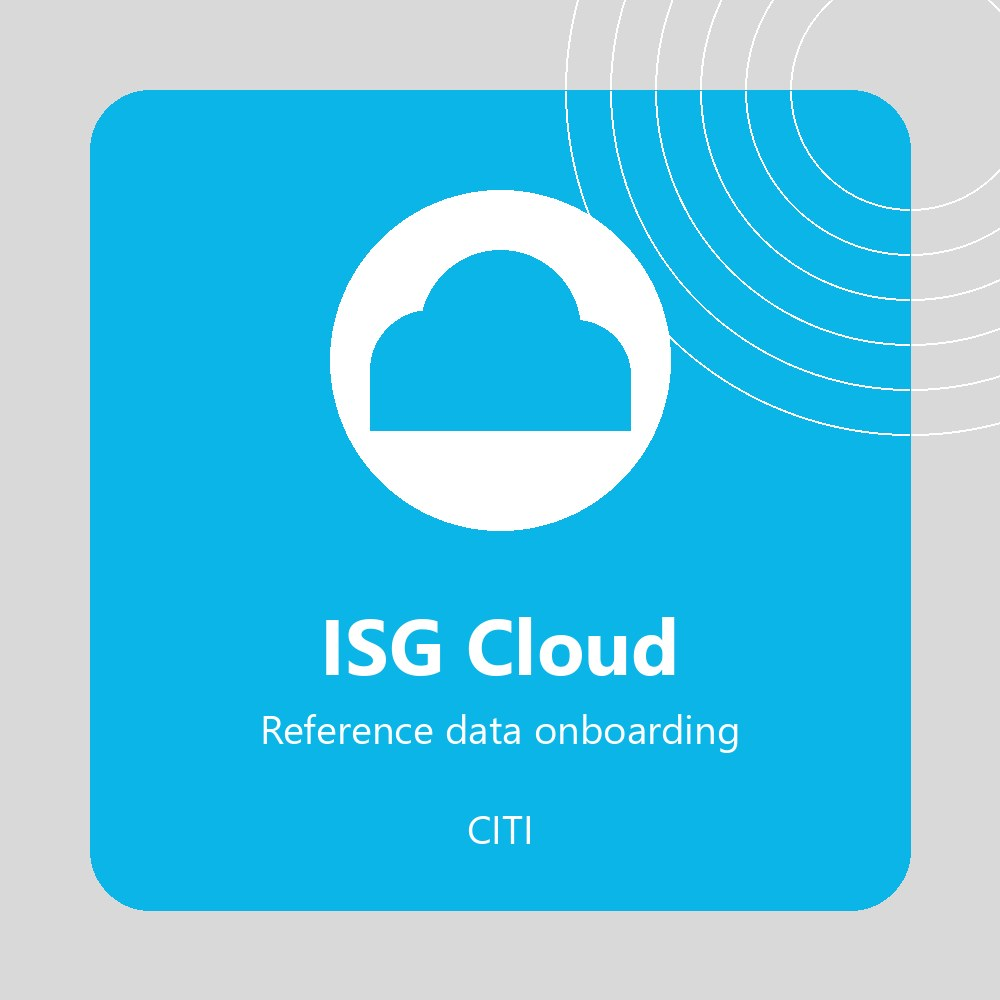
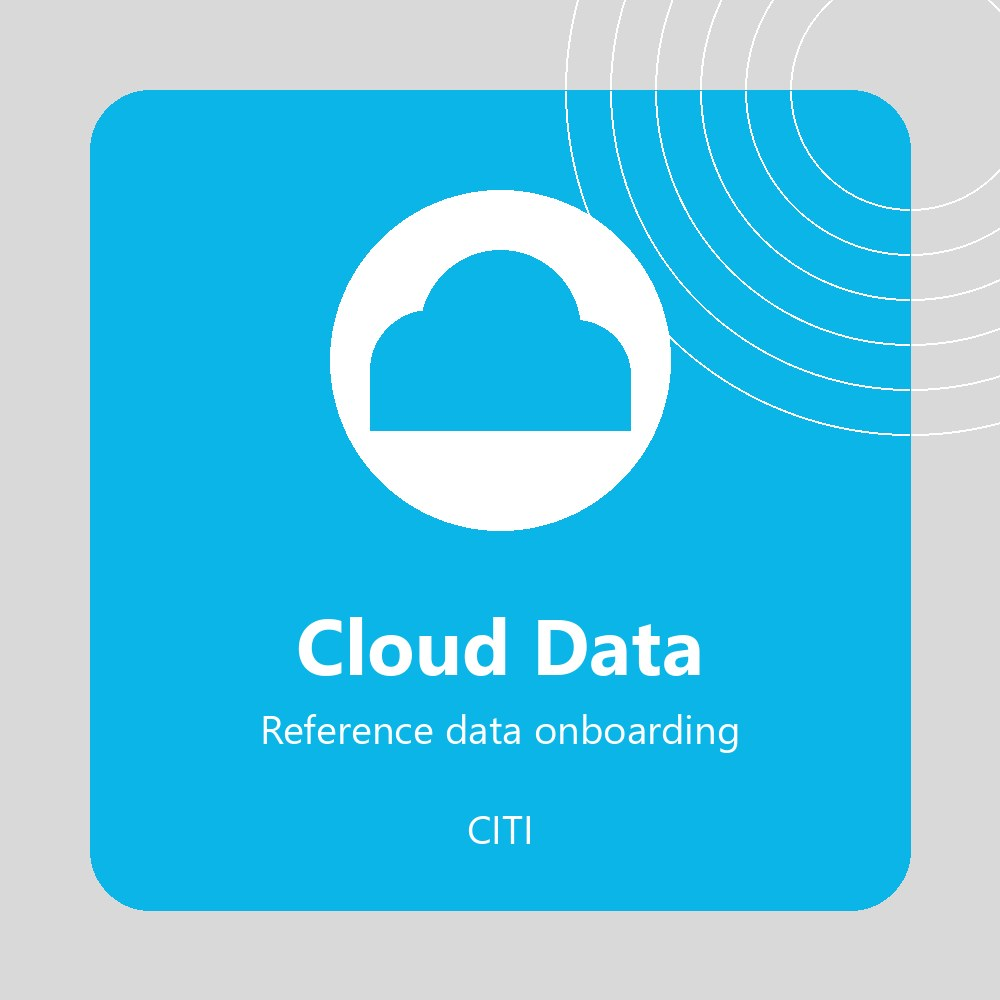
Replace internal platform and team names with generic wording

Changed region(s): [[0.279, 0.62, 0.713, 0.682]]

diff --git a/index.html b/index.html
@@ -83,10 +83,10 @@
                 <ul class="plain-list">
                     <li><strong>Product ownership:</strong> Owns and prioritizes product backlogs and roadmaps, defines product vision and release plans, runs refinement, sprint and PI planning, and balances regulatory, business and technical priorities across concurrent initiatives.</li>
                     <li><strong>Technical requirements:</strong> Technical and API user stories, functional specifications, solution and interface designs, sequence diagrams and data mappings that engineering teams can build and test against.</li>
-                    <li><strong>Capital markets and reference data:</strong> Account onboarding and maintenance, legal entity (MCLE, GFCID), settlement instruction (SSI) and client reference data, institutional brokerage integration, post-trade reconciliation and T+1 settlement readiness.</li>
+                    <li><strong>Capital markets and reference data:</strong> Account onboarding and maintenance, legal entity, client identifier, settlement instruction (SSI) and client reference data, institutional brokerage integration, post-trade reconciliation and T+1 settlement readiness.</li>
                     <li><strong>Regulatory and compliance:</strong> KYC, sanctions screening (OFAC, AML), FinCEN, tax documentation, AODA, PIPEDA and CPPA, translated into business rules, compliance controls, maker/checker workflows and audit-ready processes.</li>
                     <li><strong>Payments:</strong> ISO 20022 (pacs, camt), SWIFT MT to MX, Fedwire, Interac, ACH and account-based payments, wire payment engines (Finastra, ACI), payment APIs, Open Payment Framework, and fraud, sanctions and AML integrations.</li>
-                    <li><strong>Data and integration:</strong> Event-driven architecture (Kafka, KaaS, Tibco), cloud data platforms, data mapping across XML, JSON, flat file, CSV and ANSI X12, data governance, data profiling, data quality and ETL rules, SQL analysis.</li>
+                    <li><strong>Data and integration:</strong> Event-driven architecture (Kafka, Tibco), cloud data platforms, data mapping across XML, JSON, flat file, CSV and ANSI X12, data governance, data profiling, data quality and ETL rules, SQL analysis.</li>
                     <li><strong>Analysis and modelling:</strong> BPMN, UML, process mapping and business process reengineering, gap, SWOT, feasibility, cost-benefit and impact analysis, conceptual and logical data modelling, decision trees and sequence diagrams.</li>
                     <li><strong>Testing and release:</strong> UAT planning and governance, SIT and regression testing, Cucumber/BDD test case reviews, API testing in Postman, defect triage, release readiness, change management and post-implementation validation.</li>
                     <li><strong>Stakeholder leadership:</strong> JAD sessions, workshops and focus groups with SMEs, consensus building across Operations, Compliance, Architecture, Development and vendor teams, and mentoring of junior analysts.</li>
@@ -114,18 +114,18 @@
                             <p class="timeline-event-thumbnail">October 2023 - Present</p>
                             <h3>Sr. Business Systems Analyst / Product Owner</h3>
                             <h4>Citi, Toronto, ON</h4>
-                            <p><strong>AMC Accounts (eSales), Tibco to Kafka Migration, ISG Cloud, CitiKYC &amp; CitiScreening, Broadridge, FinCEN &amp; Tax, T+1 Settlement</strong></p>
+                            <p><strong>Account Reference Data Platform, Tibco to Kafka Migration, Cloud Data Platform, KYC &amp; Sanctions Screening, Broadridge, FinCEN &amp; Tax, T+1 Settlement</strong></p>
                             <ul class="plain-list">
-                                <li><strong>Product ownership:</strong> Own the product backlog and roadmap for AMC Accounts (eSales), Citi&#x27;s global account onboarding and reference data platform publishing Accounts, legal entities (MCLE, GFCID), settlement instructions (SSI) and communication profiles to enterprise downstream consumers.</li>
-                                <li><strong>Event-driven migration:</strong> Led business delivery of Citi&#x27;s strategic Tibco Exit Program, moving enterprise data distribution from Tibco to Kafka/KaaS and ISG Cloud, and onboarding and validating numerous downstream consumer applications with minimal business disruption.</li>
-                                <li><strong>Cloud data platform:</strong> Defined data publication, account classification and status derivation rules to onboard Accounts, MCLE, GFCID, SSI, CMM, ETC and Communication Profile reference data into ISG Cloud.</li>
-                                <li><strong>Vendor integration:</strong> Owned the Broadridge Integration Program backlog: brokerage account migration, BRID generation, automated onboarding, SSI synchronization, ACK/NACK reconciliation and exception management.</li>
-                                <li><strong>Sanctions screening:</strong> Integrated eSales with CitiScreening for OFAC, AML and sanctions compliance, with real-time and batch screening, maker/checker workflows and restriction management.</li>
-                                <li><strong>KYC integration:</strong> Defined CitiKYC integration requirements for MCLE creation, KYC refresh, risk assessment and Product Usage Profile (PUP) onboarding controls, and led the legal entity and risk data mapping.</li>
-                                <li><strong>Regulatory automation:</strong> Delivered FinCEN approval automation and migrated tax documentation from legacy AWD to eSales/DMC with GFCID-level tracking; automated eDelivery, Margin Document, Seg Lending and account setup workflows.</li>
-                                <li><strong>T+1 settlement:</strong> Owned the roadmap for T+1 readiness, Sponsored Repo processing, Syndicate Indicator automation, GP-level IPO certification, real-time eDelivery controls and IHS Markit real-time integrations.</li>
+                                <li><strong>Product ownership:</strong> Own the product backlog and roadmap for Citi&#x27;s global account onboarding and reference data platform, which publishes accounts, legal entities, client identifiers, settlement instructions (SSI) and communication profiles to enterprise downstream consumers.</li>
+                                <li><strong>Event-driven migration:</strong> Led business delivery of Citi&#x27;s strategic Tibco decommissioning program, moving enterprise data distribution from Tibco to Kafka and the enterprise cloud data platform, and onboarding and validating numerous downstream consumer applications with minimal business disruption.</li>
+                                <li><strong>Cloud data platform:</strong> Defined data publication, account classification and status derivation rules to onboard account, legal entity, client, settlement instruction and communication profile reference data into the enterprise cloud data platform.</li>
+                                <li><strong>Vendor integration:</strong> Owned the Broadridge Integration Program backlog: brokerage account migration, brokerage account ID generation, automated onboarding, SSI synchronization, ACK/NACK reconciliation and exception management.</li>
+                                <li><strong>Sanctions screening:</strong> Integrated the account platform with the enterprise sanctions screening platform for OFAC, AML and sanctions compliance, with real-time and batch screening, maker/checker workflows and restriction management.</li>
+                                <li><strong>KYC integration:</strong> Defined enterprise KYC platform integration requirements for legal entity creation, KYC refresh, risk assessment and product usage onboarding controls, and led the legal entity and risk data mapping.</li>
+                                <li><strong>Regulatory automation:</strong> Delivered FinCEN approval automation and migrated tax documentation from legacy AWD to DMC with client-level tracking; automated eDelivery, Margin Document, Seg Lending and account setup workflows.</li>
+                                <li><strong>T+1 settlement:</strong> Owned the roadmap for T+1 readiness, Sponsored Repo processing, Syndicate Indicator automation, GP-level IPO certification and real-time eDelivery controls.</li>
                                 <li><strong>Delivery:</strong> Wrote user stories, acceptance criteria and functional specifications, and governed UAT, defect triage, sign-offs, change management and production release readiness across concurrent releases.</li>
-                                <li><strong>Team enablement:</strong> Built and governed the AMC Accounts Knowledge Center and a BA Knowledge Library, cutting ramp-up time for new team members.</li>
+                                <li><strong>Team enablement:</strong> Built and governed the account platform Knowledge Center and a BA Knowledge Library, cutting ramp-up time for new team members.</li>
                             </ul>
                         </div>
                     </li>
@@ -263,10 +263,10 @@
                             <!-- end single work -->
                             <!-- single work -->
                             <div class="col-md-4 col-sm-6 markets">
-                                <a id="demo11" href="#animatedModal" class="portfolio_item"> <img src="img/portfolio/11.jpg" alt="ISG Cloud Reference Data" class="img-responsive" />
+                                <a id="demo11" href="#animatedModal" class="portfolio_item"> <img src="img/portfolio/11.jpg" alt="Cloud Data Platform Reference Data" class="img-responsive" />
                                     <div class="portfolio_item_hover">
                                         <div class="portfolio-border clearfix">
-                                            <div class="item_info"> <span>ISG Cloud<br />Reference Data</span> <em>Cloud data</em> </div>
+                                            <div class="item_info"> <span>Cloud Data Platform<br />Reference Data</span> <em>Cloud data</em> </div>
                                         </div>
                                     </div>
                                 </a>
@@ -542,16 +542,16 @@
 
     <div id="project-templates" hidden>
     <div id="tpl-demo10">
-        <h2>Tibco Exit Program<br />Event-Driven Data Distribution on Kafka</h2>
-        <p class="project-meta">Citi | AMC Accounts (eSales) | Sr. Business Systems Analyst / Product Owner</p>
+        <h2>Tibco-to-Kafka Migration<br />Event-Driven Data Distribution</h2>
+        <p class="project-meta">Citi | Account Reference Data Platform | Sr. Business Systems Analyst / Product Owner</p>
         <h4>Context</h4>
-        <p>AMC Accounts (eSales) is Citi&#x27;s global account onboarding and maintenance platform. It publishes Accounts, legal entities (MCLEs), GFCIDs, settlement instructions and communication profiles to a large number of internal and external downstream consumers. Citi&#x27;s strategic Tibco Exit Program retired Tibco as the distribution layer and moved publication to Kafka/KaaS and ISG Cloud.</p>
+        <p>Citi&#x27;s global account onboarding and reference data platform publishes accounts, legal entities, client identifiers, settlement instructions and communication profiles to a large number of internal and external downstream consumers. Citi&#x27;s strategic Tibco decommissioning program retired Tibco as the distribution layer and moved publication to Kafka and the enterprise cloud data platform.</p>
         <h4>What I did</h4>
         <ul class="plain-list">
-        <li>Led business coordination for the migration of eSales enterprise data distribution from Tibco to Kafka/KaaS and ISG Cloud, supporting enterprise-wide adoption of event-driven architecture.</li>
+        <li>Led business coordination for the migration of the platform's enterprise data distribution from Tibco to Kafka and the enterprise cloud data platform, supporting enterprise-wide adoption of event-driven architecture.</li>
         <li>Owned business requirements, process flows, message data mappings, stakeholder alignment, UAT planning, functional sign-offs and release coordination.</li>
         <li>Coordinated onboarding and validation of numerous downstream consumer applications, ensuring a successful cut-over with minimal disruption.</li>
-        <li>Partnered with Architecture, Development, ISG Cloud, Broadridge and consumer teams on the target publication model, sequencing and consumer readiness criteria.</li>
+        <li>Partnered with Architecture, Development, cloud platform, Broadridge and consumer teams on the target publication model, sequencing and consumer readiness criteria.</li>
         <li>Supported production releases, change management, risk assessments, defect triage and post-implementation validation.</li>
         </ul>
         <h4>Outcomes</h4>
@@ -561,17 +561,17 @@
         <li>Improved data quality and reduced manual operational effort.</li>
         </ul>
         <h4>Technologies and artifacts</h4>
-        <p class="project-tech">Kafka, KaaS, Tibco, ISG Cloud, event-driven architecture, message data mapping, UAT, release management</p>
+        <p class="project-tech">Kafka, Tibco, enterprise cloud data platform, event-driven architecture, message data mapping, UAT, release management</p>
     </div>
     <div id="tpl-demo11">
-        <h2>ISG Cloud<br />Reference Data Onboarding</h2>
-        <p class="project-meta">Citi | AMC Accounts (eSales) | Sr. Business Systems Analyst / Product Owner</p>
+        <h2>Cloud Data Platform<br />Reference Data Onboarding</h2>
+        <p class="project-meta">Citi | Account Reference Data Platform | Sr. Business Systems Analyst / Product Owner</p>
         <h4>Context</h4>
-        <p>Onboarding of AMC Accounts reference data into the ISG Cloud enterprise data platform, so account, legal entity and settlement data can be consumed across the enterprise through standardized cloud publication.</p>
+        <p>Onboarding of the account platform's reference data into the enterprise cloud data platform, so account, legal entity and settlement data can be consumed across the enterprise through standardized cloud publication.</p>
         <h4>What I did</h4>
         <ul class="plain-list">
-        <li>Led business analysis and product delivery for onboarding eSales reference data into ISG Cloud, supporting account and client data modernization.</li>
-        <li>Documented requirements, process flows, entity mappings and data governance standards for Accounts, MCLEs, GFCIDs, SSI, CMM, ETC and Communication Profiles.</li>
+        <li>Led business analysis and product delivery for onboarding the platform's reference data into the cloud data platform, supporting account and client data modernization.</li>
+        <li>Documented requirements, process flows, entity mappings and data governance standards for accounts, legal entities, client identifiers, settlement instructions and communication profiles.</li>
         <li>Defined account classification, status derivation and data publication rules for enterprise cloud consumers.</li>
         <li>Ran impact assessments and workshops with architecture, cloud engagement, operations and application teams.</li>
         <li>Coordinated cloud onboarding activities, engagement reviews, testing validation and business sign-offs.</li>
@@ -583,48 +583,48 @@
         <li>Better enterprise-wide accessibility and consistency of reference data.</li>
         </ul>
         <h4>Technologies and artifacts</h4>
-        <p class="project-tech">ISG Cloud, reference data management, entity mapping, data governance, data publication rules</p>
+        <p class="project-tech">Enterprise cloud data platform, reference data management, entity mapping, data governance, data publication rules</p>
     </div>
     <div id="tpl-demo12">
         <h2>FinCEN, Tax Operations<br />&amp; Regulatory Document Management</h2>
-        <p class="project-meta">Citi | AMC Accounts (eSales) | Sr. Business Systems Analyst / Product Owner</p>
+        <p class="project-meta">Citi | Account Reference Data Platform | Sr. Business Systems Analyst / Product Owner</p>
         <h4>Context</h4>
-        <p>Regulatory and document management transformation within AMC Accounts: FinCEN approvals, tax documentation, eDelivery and margin and securities lending documents.</p>
+        <p>Regulatory and document management transformation within the account platform: FinCEN approvals, tax documentation, eDelivery and margin and securities lending documents.</p>
         <h4>What I did</h4>
         <ul class="plain-list">
-        <li>Owned the product requirements and roadmap for document management, tax operations and regulatory compliance capabilities in AMC Accounts.</li>
+        <li>Owned the product requirements and roadmap for document management, tax operations and regulatory compliance capabilities in the account platform.</li>
         <li>Led delivery of FinCEN regulatory approval workflows, defining and validating the business rules behind automated FinCEN approval triggers.</li>
-        <li>Drove migration of tax documentation from the legacy AWD platform to eSales/DMC, including GFCID-level tax document tracking.</li>
+        <li>Drove migration of tax documentation from the legacy AWD platform to DMC, including client-level tax document tracking.</li>
         <li>Documented requirements, process flows, decision trees and functional specifications for FinCEN approvals, tax document management and account controls.</li>
         <li>Defined business rules for eDelivery workflows, Margin Document processing and Seg Lending indicators, and automated document approval and account setup workflows.</li>
-        <li>Partnered with Compliance, Tax Operations, the Accounts Control Group and Technology, and facilitated UAT, defect resolution and business sign-offs.</li>
+        <li>Partnered with Compliance, Tax Operations, account control and Technology teams, and facilitated UAT, defect resolution and business sign-offs.</li>
         </ul>
         <h4>Outcomes</h4>
         <ul class="plain-list">
         <li>Automated FinCEN approvals in place of manual review triggers.</li>
-        <li>Tax documents moved off legacy AWD with GFCID-level tracking, improving accessibility and auditability.</li>
+        <li>Tax documents moved off legacy AWD with client-level tracking, improving accessibility and auditability.</li>
         <li>Reduced manual processing through Margin Document, Seg Lending and account setup automation.</li>
         </ul>
         <h4>Technologies and artifacts</h4>
-        <p class="project-tech">eSales, DMC, AWD, FinCEN, eDelivery, decision trees, business rules, UAT</p>
+        <p class="project-tech">DMC, AWD, FinCEN, eDelivery, decision trees, business rules, UAT</p>
     </div>
     <div id="tpl-demo13">
-        <h2>CitiKYC &amp; CitiScreening<br />Integration</h2>
-        <p class="project-meta">Citi | AMC Accounts (eSales) | Sr. Business Systems Analyst / Product Owner</p>
+        <h2>KYC &amp; Sanctions Screening<br />Integration</h2>
+        <p class="project-meta">Citi | Account Reference Data Platform | Sr. Business Systems Analyst / Product Owner</p>
         <h4>Context</h4>
-        <p>Two enterprise compliance integrations for eSales: CitiKYC for KYC transformation and client onboarding, and CitiScreening for OFAC, BADI, AML and sanctions screening.</p>
-        <h4>CitiKYC</h4>
+        <p>Two enterprise compliance integrations for the account platform: the enterprise KYC platform for KYC transformation and client onboarding, and the enterprise sanctions screening platform for OFAC, AML and sanctions screening.</p>
+        <h4>KYC platform</h4>
         <ul class="plain-list">
-        <li>Ran requirements gathering, stakeholder workshops, process modeling and data mapping across AMC/eSales, CitiKYC, Client Onboarding (COB) and DMC.</li>
-        <li>Defined business rules and integration requirements for MCLE creation, client lifecycle management, KYC refresh, risk assessments and regulatory document management.</li>
-        <li>Managed end-to-end requirements for Product Usage Profile (PUP) onboarding controls, account validation frameworks and KYC approval workflows.</li>
-        <li>Mapped legal entities, client classifications, country mappings, risk ratings and document statuses between eSales and CitiKYC.</li>
+        <li>Ran requirements gathering, stakeholder workshops, process modeling and data mapping across the account platform, the enterprise KYC platform, Client Onboarding (COB) and DMC.</li>
+        <li>Defined business rules and integration requirements for legal entity creation, client lifecycle management, KYC refresh, risk assessments and regulatory document management.</li>
+        <li>Managed end-to-end requirements for product usage onboarding controls, account validation frameworks and KYC approval workflows.</li>
+        <li>Mapped legal entities, client classifications, country mappings, risk ratings and document statuses between the account platform and the enterprise KYC platform.</li>
         <li>Supported automated KYC document tracking, risk refresh synchronization and client compliance monitoring across global Markets businesses.</li>
         </ul>
-        <h4>CitiScreening</h4>
+        <h4>Sanctions screening platform</h4>
         <ul class="plain-list">
-        <li>Owned the product backlog for integrating eSales with CitiScreening for OFAC, BADI, AML and sanctions compliance.</li>
-        <li>Defined requirements for real-time and batch screening of Accounts, MCLEs, GFCIDs and SSI entities, covering customer accounts, legal entities, undisclosed funds and settlement instructions.</li>
+        <li>Owned the product backlog for integrating the account platform with the enterprise sanctions screening platform for OFAC, AML and sanctions compliance.</li>
+        <li>Defined requirements for real-time and batch screening of accounts, legal entities, clients and settlement instruction entities, covering customer accounts, legal entities, undisclosed funds and settlement instructions.</li>
         <li>Prioritized maker/checker workflows, restriction management, real-time screening and batch screening automation.</li>
         <li>Created business process models, data mappings, workflow designs, reporting specifications and acceptance criteria.</li>
         </ul>
@@ -635,17 +635,17 @@
         <li>Compliance controls built into the platform rather than handled manually.</li>
         </ul>
         <h4>Technologies and artifacts</h4>
-        <p class="project-tech">CitiKYC, CitiScreening, COB, DMC, OFAC, AML, maker/checker, data mapping</p>
+        <p class="project-tech">Enterprise KYC and sanctions screening platforms, COB, DMC, OFAC, AML, maker/checker, data mapping</p>
     </div>
     <div id="tpl-demo14">
         <h2>Broadridge<br />Integration Program</h2>
-        <p class="project-meta">Citi | AMC Accounts (eSales) | Sr. Business Systems Analyst / Product Owner</p>
+        <p class="project-meta">Citi | Account Reference Data Platform | Sr. Business Systems Analyst / Product Owner</p>
         <h4>Context</h4>
         <p>Citi&#x27;s enterprise Broadridge Integration Program supports institutional brokerage account onboarding, settlement processing, reconciliation and account lifecycle management.</p>
         <h4>What I did</h4>
         <ul class="plain-list">
         <li>Owned the product backlog and delivery roadmap for the Broadridge integration initiatives.</li>
-        <li>Defined business rules for account onboarding, BRID generation, settlement instructions, transaction processing and account classification logic.</li>
+        <li>Defined business rules for account onboarding, brokerage account ID generation, settlement instructions, transaction processing and account classification logic.</li>
         <li>Translated requirements into user stories, process flows, functional specifications, data mappings and acceptance criteria.</li>
         <li>Conducted impact assessments, gap analysis, reconciliation design and exception management reviews across multiple systems.</li>
         <li>Drove alignment across Operations, Compliance, Finance, Broadridge, CitiSSI and Technology, and facilitated UAT, release readiness reviews and production rollouts.</li>
@@ -657,19 +657,19 @@
         <li>Improved data quality, regulatory readiness and operational efficiency across brokerage platforms.</li>
         </ul>
         <h4>Technologies and artifacts</h4>
-        <p class="project-tech">Broadridge, CitiSSI, BRID, SSI synchronization, ACK/NACK reconciliation, data mapping</p>
+        <p class="project-tech">Broadridge, CitiSSI, brokerage account IDs, SSI synchronization, ACK/NACK reconciliation, data mapping</p>
     </div>
     <div id="tpl-demo15">
         <h2>T+1 Settlement<br />&amp; Regulatory Modernization</h2>
-        <p class="project-meta">Citi | AMC Accounts (eSales) | Sr. Business Systems Analyst / Product Owner</p>
+        <p class="project-meta">Citi | Account Reference Data Platform | Sr. Business Systems Analyst / Product Owner</p>
         <h4>Context</h4>
-        <p>Regulatory and T+1 settlement transformation within AMC Accounts, covering account onboarding, compliance, settlement processing and regulatory reporting.</p>
+        <p>Regulatory and T+1 settlement transformation within the account platform, covering account onboarding, compliance, settlement processing and regulatory reporting.</p>
         <h4>What I did</h4>
         <ul class="plain-list">
         <li>Owned the delivery roadmap for T+1 readiness, regulatory compliance and operational efficiency initiatives.</li>
-        <li>Defined requirements for Sponsored Repo processing, Syndicate Indicator automation, GP-level IPO certification and document management, real-time eDelivery controls and IHS Markit real-time integrations.</li>
-        <li>Ran impact analysis and workshops across Operations, Compliance, Settlement Operations, Reference Data Services, CPI, IHS Markit and Technology.</li>
-        <li>Defined downstream data distribution requirements through ISG Cloud and enterprise messaging platforms.</li>
+        <li>Defined requirements for Sponsored Repo processing, Syndicate Indicator automation, GP-level IPO certification and document management, and real-time eDelivery controls.</li>
+        <li>Ran impact analysis and workshops across Operations, Compliance, Settlement Operations, Reference Data Services and Technology.</li>
+        <li>Defined downstream data distribution requirements through the cloud data platform and enterprise messaging platforms.</li>
         <li>Led UAT execution, defect management, release validation and production readiness.</li>
         </ul>
         <h4>Outcomes</h4>
@@ -679,16 +679,16 @@
         <li>Stronger regulatory compliance and enterprise data governance.</li>
         </ul>
         <h4>Technologies and artifacts</h4>
-        <p class="project-tech">T+1, Sponsored Repo, IHS Markit, eDelivery, ISG Cloud, enterprise messaging</p>
+        <p class="project-tech">T+1, Sponsored Repo, eDelivery, cloud data platform, enterprise messaging</p>
     </div>
     <div id="tpl-demo16">
-        <h2>AMC Accounts Knowledge Center<br />&amp; BA Knowledge Library</h2>
-        <p class="project-meta">Citi | AMC Accounts (eSales) | Sr. Business Systems Analyst / Product Owner</p>
+        <h2>Account Platform Knowledge Center<br />&amp; BA Knowledge Library</h2>
+        <p class="project-meta">Citi | Account Reference Data Platform | Sr. Business Systems Analyst / Product Owner</p>
         <h4>Context</h4>
-        <p>A centralized business, application and technical knowledge base for AMC Accounts (eSales), plus a BA Knowledge Library of standards and templates for the analyst community.</p>
+        <p>A centralized business, application and technical knowledge base for the account platform, plus a BA Knowledge Library of standards and templates for the analyst community.</p>
         <h4>What I did</h4>
         <ul class="plain-list">
-        <li>Designed, built and governed the AMC Accounts Knowledge Center, the primary repository for functional, technical, operational and architectural documentation.</li>
+        <li>Designed, built and governed the account platform Knowledge Center, the primary repository for functional, technical, operational and architectural documentation.</li>
         <li>Documented application architecture, downstream integrations, data flows, account lifecycle management, deployment processes and support procedures.</li>
         <li>Created access matrices, troubleshooting playbooks, SQL reference guides, environment documentation, process diagrams and integration overviews.</li>
         <li>Established BA templates and frameworks: BRDs, user story and acceptance criteria templates, data mapping standards, UAT frameworks and release readiness checklists.</li>
